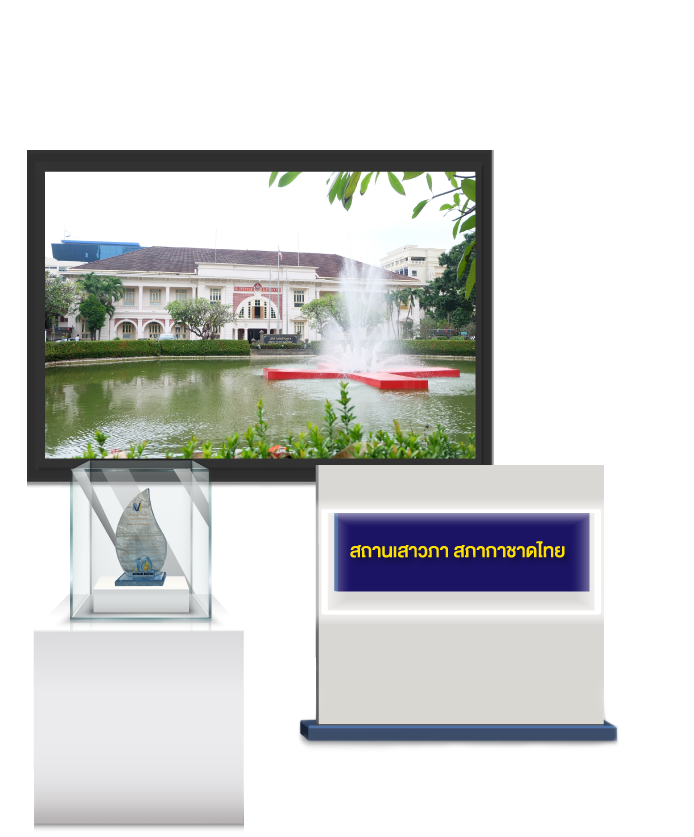
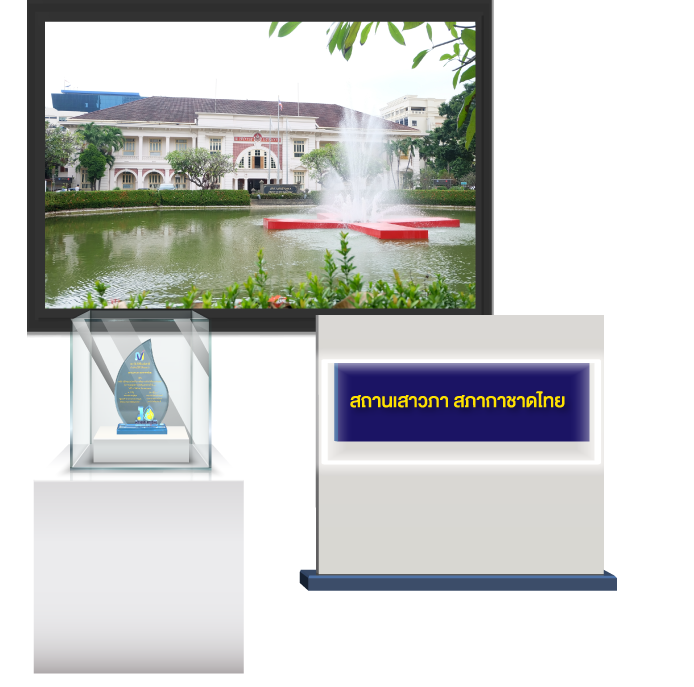
change img trophy

diff --git a/resources/css/hall.sass b/resources/css/hall.sass
@@ -23,10 +23,7 @@
             text-shadow: 0px 0px 15px #FFFFFF
             -webkit-text-stroke: 2px #FFFFFF
             padding-top: 100px
-    #trophy
-        margin-top: -50px
-        @include screen('md')
-            margin-top: 0
+
     .row
         width: 100vw
         @include screen('lg')

diff --git a/public/css/app.css b/public/css/app.css
@@ -12055,14 +12055,6 @@ textarea.form-control-lg {
     padding-top: 100px;
   }
 }
-#hall #trophy {
-  margin-top: -50px;
-}
-@media screen and (min-width: 768px) {
-  #hall #trophy {
-    margin-top: 0;
-  }
-}
 #hall .row {
   width: 100vw;
 }

diff --git a/resources/views/trophy.blade.php b/resources/views/trophy.blade.php
@@ -1,11 +1,11 @@
 @extends('layouts.base')
 
 @section('content')
-    <div id="hall" class="position-relative p-4">
+    <div id="hall" class="position-relative px-4">
         <h1 class="w-100 fw-bold">
             รางวัลผู้ทำคุณประโยชน์ในการพัฒนางานวัคซีน ประจำปี พ.ศ. 2564
         </h1>
-        <div id="trophy" class="w-100 position-relative d-flex justify-content-lg-end">
+        <div id="trophy" class="w-100 position-relative d-flex justify-content-lg-end mt-4">
             <div class="row">
                 <div class="col-12 col-md-6 p-4">
                     <img src="{{asset('images/award1.png')}}" alt="" class="img-fluid">
